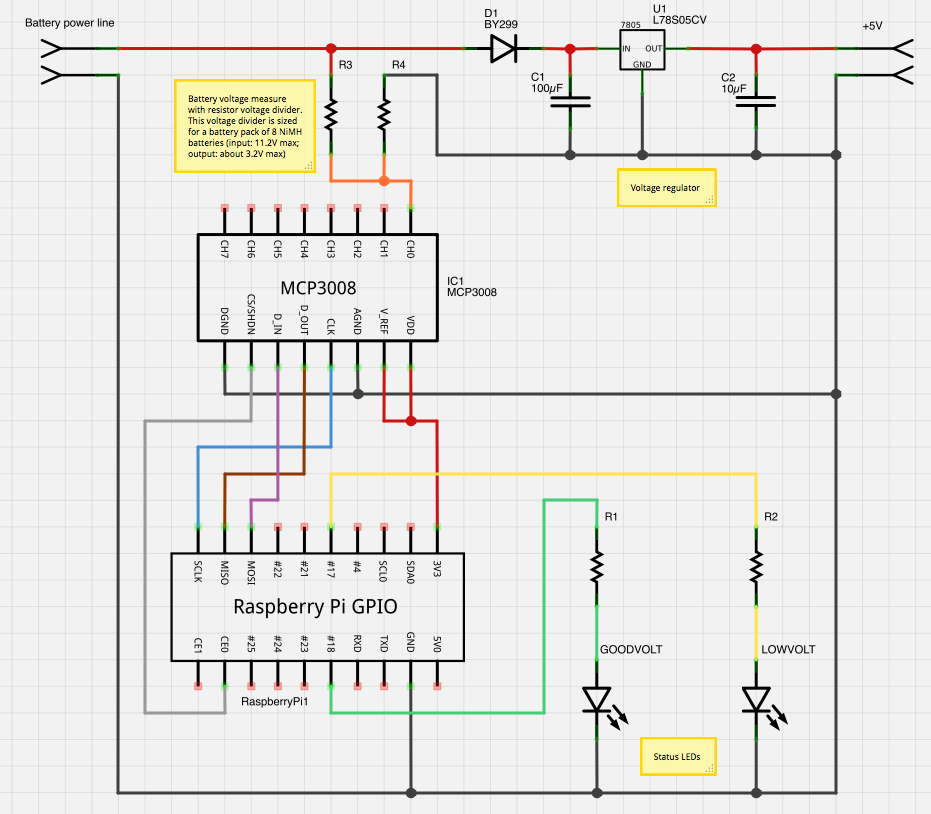
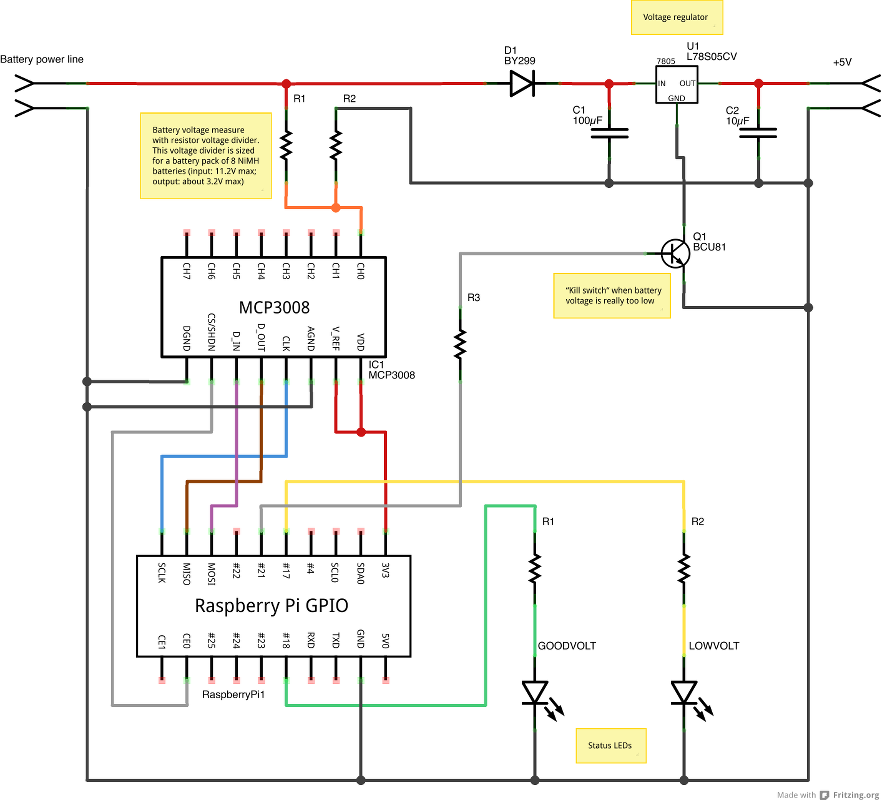
Added a “kill switch” when batteries voltage is dangerously low

Changed region(s): [[0.0, 0.0, 1.0, 1.0]]

diff --git a/config.py b/config.py
@@ -5,6 +5,9 @@
 ## Path of the scripts which will run by checkvoltage
 # Script to run when no battery is plugged (array with script then parameters)
 NOBAT_SCRIPT_PATH = ["/root/raspberrypi/movingraspi/MovingRaspiPlus/Server/movingraspi.sh", "stop"]
+# Script to run when battery voltage is dangerously low (array with script then
+#   parameters)
+DNGBAT_SCRIPT_PATH = ["/root/batterymail.sh"]
 # Script to run when battery voltage is low (array with script then parameters)
 KOBAT_SCRIPT_PATH = ["/root/raspberrypi/movingraspi/MovingRaspiPlus/Server/movingraspi.sh", "stop"]
 # Script to run when battery voltage is good (array with script then parameters)
@@ -14,15 +17,30 @@ OKBAT_SCRIPT_PATH = ["/root/raspberrypi/movingraspi/MovingRaspiPlus/Server/movin
 GOODVOLTPIN = 11
 # GPIO (BOARD numbering scheme) pin for low voltage LED
 LOWVOLTPIN = 12
+# GPIO (BOARD numbering scheme) pin for kill switch (LOW value to stop powering
+#   assembly) 
+KILLPIN = 13
 
 ## Define voltages
 # Number of batteries in series
 BATNUMBER = 8.0
-# Fully charged voltage (for a single battery); i.e. 1.4V for a NiMH battery
+#BATNUMBER = 3.0
+# Fully charged voltage (for a single battery); 
+#   i.e. 1.4V for a NiMH battery, or 3.8V for a LiPo battery
 FULLBATVOLT = 1.4
-# Discharged voltage (for a single battery; i.e. 1.05V for a NiMH battery
-# You should use a conservative value in order to avoid destructive discharging
+#FULLBATVOLT = 3.8
+# Discharged voltage (for a single battery); 
+#   i.e. 1.05V for a NiMH battery, or 3.1V for a LiPo battery
+#   You should use a conservative value in order to avoid destructive
+#   discharging
 LOWBATVOLT = 1.05
+#LOWBATVOLT = 3.1
+# Dangerous voltage (for a single battery);
+#   i.e. 1.0V for a NiMH battery, or 3.05V for a LiPo battery
+#   You should really not go below this voltage.
+DNGBATVOLT = 1.0
+#DNGBATVOLT = 3.05
+
 # Value (in ohms) of the lower resistor from the voltage divider, connected to
 #   the ground line (1 if no voltage divider). Default value (3900) is for a 
 #   battery pack of 8 NiMH batteries, providing 11.2V max, stepped down to about
@@ -38,6 +56,9 @@ HIGHRESVAL = 10000
 VHIGHBAT = (BATNUMBER*FULLBATVOLT)*(LOWRESVAL)/(LOWRESVAL+HIGHRESVAL)
 # Voltage value measured by the MCP3008 when batteries are discharged
 VLOWBAT = (BATNUMBER*LOWBATVOLT)*(LOWRESVAL)/(LOWRESVAL+HIGHRESVAL)
+# Voltage value measured by the MCP3008 when batteries voltage is dangerously
+#   low
+VDNGBAT = (BATNUMBER*DNGBATVOLT)*(LOWRESVAL)/(LOWRESVAL+HIGHRESVAL)
 
 ## Define expected ADC values
 # MCP23008 channel to use (from 0 to 7)
@@ -46,10 +67,14 @@ ADCCHANNEL = 0
 #  * 3.3 is the reference voltage (got from Raspberry Pi's +3.3V power line)
 #  * 1024.0 is the number of possible values (MCP23008 is a 10 bit ADC)
 ADCHIGH = VHIGHBAT / (3.3 / 1024.0)
-# MCP23008 should return this value when batteries are fully charged
+# MCP23008 should return this value when batteries are discharged
 #  * 3.3 is the reference voltage (got from Raspberry Pi's +3.3V power line)
 #  * 1024.0 is the number of possible values (MCP23008 is a 10 bit ADC)
 ADCLOW = VLOWBAT / (3.3 / 1024.0)
+# MCP23008 should return this value when batteries atteigns dangerous voltage
+#  * 3.3 is the reference voltage (got from Raspberry Pi's +3.3V power line)
+#  * 1024.0 is the number of possible values (MCP23008 is a 10 bit ADC)
+ADCDNG = VDNGBAT / (3.3 / 1024.0)
 # MCP should return a value lower than this one when no battery is plugged.
 # You should not use 0 because value is floatting around 0 / 150 when nothing
 #  is plugged to a analog channel. 

diff --git a/main.py b/main.py
@@ -13,6 +13,7 @@ from config import *
 from mcp3008 import *
 
 STATUSNOBAT = 0
+STATUSDNGBAT = 0
 STATUSLOWBAT = 0
 STATUSGOODBAT = 0
 ret = 0
@@ -46,17 +47,22 @@ def endProcess(signalnum = None, handler = None):
     exit(0)
 
 if DEBUGMSG == 1:
-  print("Batteries high voltage: " + str(VHIGHBAT))
-  print("Batteries low voltage:  " + str(VLOWBAT))
-  print("ADC high voltage value: " + str(ADCHIGH))
-  print("ADC low voltage value:  " + str(ADCLOW))
+  print("Batteries high voltage:       " + str(VHIGHBAT))
+  print("Batteries low voltage:        " + str(VLOWBAT))
+  print("Batteries dangerous voltage:  " + str(VDNGBAT))
+  print("ADC high voltage value:       " + str(ADCHIGH))
+  print("ADC low voltage value:        " + str(ADCLOW))
+  print("ADC dangerous voltage value:  " + str(ADCDNG))
 
 # Put pins to out mode and low state.
 def initPins():
     GPIO.setup(GOODVOLTPIN, GPIO.OUT)
     GPIO.setup(LOWVOLTPIN, GPIO.OUT)
+    GPIO.setup(KILLPIN, GPIO.OUT)
     GPIO.output(GOODVOLTPIN, GPIO.LOW)
     GPIO.output(LOWVOLTPIN, GPIO.LOW)
+    GPIO.output(KILLPIN, GPIO.LOW)
+
 
 ### Main part
 
@@ -96,36 +102,60 @@ while True:
         # No battery plugged : we switch all LED off, and run NOBAT_SCRIPT_PATH
         GPIO.output(GOODVOLTPIN, GPIO.LOW)
         GPIO.output(LOWVOLTPIN, GPIO.LOW)
+        GPIO.output(KILLPIN, GPIO.LOW)
         if STATUSNOBAT == 0:
             try:
                 p = subprocess.Popen(NOBAT_SCRIPT_PATH, stdout=subprocess.PIPE)
                 STATUSNOBAT = 1
+                STATUSDNGBAT = 0
                 STATUSLOWBAT = 0
                 STATUSGOODBAT = 0
             except OSError:
                 print ("Could not execute " + NOBAT_SCRIPT_PATH)
+
+    elif ret < ADCDNG:
+        # Dangerous battery voltage : we switch OK LED off, KO LED on,
+        #   and run DNGBAT_SCRIPT_PATH
+        GPIO.output(GOODVOLTPIN, GPIO.LOW)
+        GPIO.output(LOWVOLTPIN, GPIO.HIGH)
+        GPIO.output(KILLPIN, GPIO.LOW)
+        if STATUSDNGBAT == 0:
+            try:
+                p = subprocess.Popen(DNGBAT_SCRIPT_PATH, stdout=subprocess.PIPE)
+                STATUSNOBAT =0 
+                STATUSDNGBAT = 1
+                STATUSLOWBAT = 0
+                STATUSGOODBAT = 0
+            except OSError:
+                print ("Could not execute " + DNGBAT_SCRIPT_PATH)
+    
     elif ret < ADCLOW:
         # Low battery voltage : we switch OK LED off, KO LED on, 
         #   and run KOBAT_SCRIPT_PATH
         GPIO.output(GOODVOLTPIN, GPIO.LOW)
         GPIO.output(LOWVOLTPIN, GPIO.HIGH)
+        GPIO.output(KILLPIN, GPIO.HIGH)
         if STATUSLOWBAT == 0:
             try:
                 p = subprocess.Popen(KOBAT_SCRIPT_PATH, stdout=subprocess.PIPE)
                 STATUSNOBAT = 0
+                STATUSDNGBAT = 0 
                 STATUSLOWBAT = 1 
                 STATUSGOODBAT = 0
             except OSError:
                 print ("Could not execute " + KOBAT_SCRIPT_PATH)
+
     else:
         # Normal battery voltage : we switch OK LED on, KO LED off, 
         #   and OKBAT_SCRIPT_PATH
         GPIO.output(GOODVOLTPIN, GPIO.HIGH)
         GPIO.output(LOWVOLTPIN, GPIO.LOW)
+        GPIO.output(KILLPIN, GPIO.HIGH)
         if STATUSGOODBAT == 0:
             try:
                 p = subprocess.Popen(OKBAT_SCRIPT_PATH, stdout=subprocess.PIPE)
                 STATUSNOBAT = 0
+                STATUSDNGBAT = 0
                 STATUSLOWBAT = 0
                 STATUSGOODBAT = 1
             except OSError:

diff --git a/README.md b/README.md
@@ -8,8 +8,10 @@ PiCheckVoltage is made of three hardware parts and one software part:
 * A voltage regulation unit, which take voltage from the battery pack and provides a +5V regulated power line (to power some IC like port expanders, motor drivers, even Raspberry Pi itself)
 * A voltage measurement unit, which check battery pack voltage after it is stepped down to a 0V to 3.3V range by a resistor divider.
 * Two status LEDs, which can display if battery pack voltage is good or too low.
+* A “kill switch”, which unplug battery when voltage is dangerously low.
 * A program to run on the Raspberry Pi, which read mesured voltage, drive status LEDs, and can start three user provided scripts when the battery pack voltage reaches three different levels:
 	* 0V level: a.k.a. unplugged battery pack
+        * dangerous battery level: when voltage reaches a value which is dangerously low for the batteries
 	* low battery level: when voltage reaches a value which is near to be dangerously low for the batteries
 	* good battery level: when voltage is over low battery level
 
@@ -32,6 +34,8 @@ Requirements
 		* One yellow LED (low battery voltage status LED)
 		* Two 330Ω resistors
 	* For the voltage measurement unit:
+		* One BCU81 transistor (act as a kill switch when batteries voltage is dangerously low) 
+                * One 330Ω resistor to limit the current sent to transistor's base pin
 		* One MCP3008 (ADC chip used to read battery voltage)
 		* One 10kΩ (R1, connected to positive rail) and one 3.9 kΩ (R2, connected to ground rail) resistor for the voltage divider. These values are chosen to step down voltage from an eight NiMH battery pack — 11.2V max — to about 3.2V max. You may want to adapt these values according the battery pack you choose. Formula for voltage divider is : Vout = Vin * (R2 / (R1 + R2). In this case: 11.2 * (3.9 / (10 + 3.9)) = 3.14
 	* For the voltage regulation unit:
